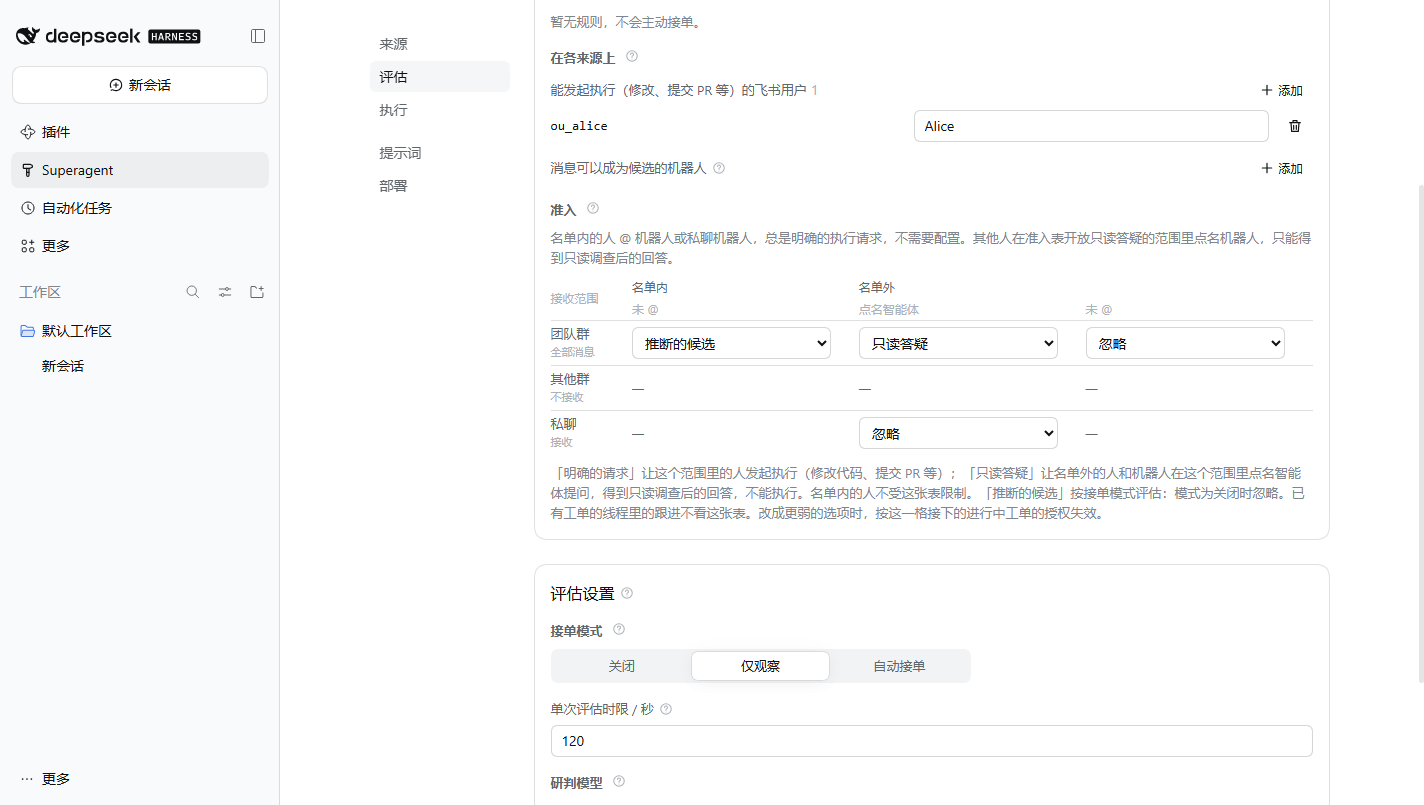
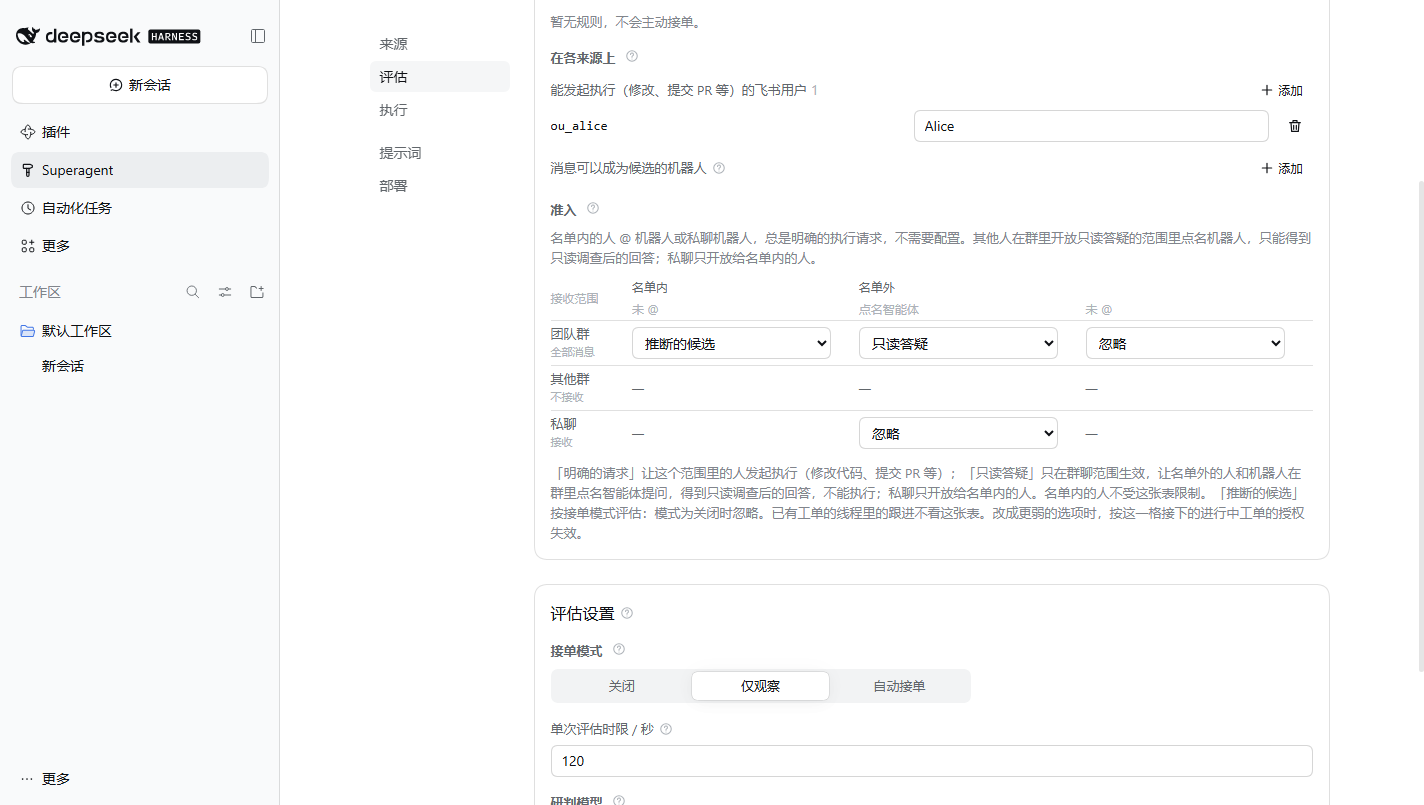
fix: 只读答疑仅限群聊，私聊仍只开放给名单内的人
gate 拒绝 direct 的 reply 准入并拒绝其 reply 授权；准入表私聊行不再提供只读答疑选项；文案、文档和前后截图同步说明群聊限制。

diff --git a/src/policy.ts b/src/policy.ts
@@ -200,8 +200,10 @@ export function settingsPolicy(settings: Settings, sources: SourceScope): Policy
     const row = scope.listened ? scope.row : undefined
     const recorded = { source: trigger.source, scope: trigger.meta, ...row === undefined ? {} : { row } }
     const addressed = trigger.addressed ? { addressed: trigger.addressed } : {}
-    // A bot or agent that addresses the agent in a scope admitting read-only questions asks one, whether or not it is listed.
-    if (trigger.addressed && scope.listened && admissionOf(settings, trigger.source, row, 'unlistedAddressed') === 'reply') {
+    // A bot or agent that addresses the agent in a group scope admitting read-only questions asks one, whether or not it is
+    // listed. Direct messages stay limited to listed senders, so a direct reply cell never admits one.
+    if (trigger.addressed && trigger.addressed !== 'direct' && scope.listened
+      && admissionOf(settings, trigger.source, row, 'unlistedAddressed') === 'reply') {
       return { admissible: true, strength: 'reply', basis: { ...recorded, via: 'admission', cell: 'unlistedAddressed', ...addressed } }
     }
     const bot = trigger.actor.id ? listedBot(settings, trigger.actor) : undefined
@@ -234,8 +236,9 @@ export function settingsPolicy(settings: Settings, sources: SourceScope): Policy
       const basis = { ...recorded, via: 'admission' as const, cell, ...trigger.addressed ? { addressed: trigger.addressed } : {} }
       // Check explicit and reply admission cells before thread follow-ups so a thread's tickets never weaken a direct request to a follow-up.
       if (admission === 'explicit') return { admissible: true, strength: 'explicit', basis }
-      // A reply cell admits an unlisted sender's addressed message as a read-only question: it answers, but never executes.
-      if (admission === 'reply') return { admissible: true, strength: 'reply', basis }
+      // A reply cell admits an unlisted sender's addressed message in a group as a read-only question: it answers, but never
+      // executes. Direct messages stay limited to listed senders.
+      if (admission === 'reply' && trigger.addressed !== 'direct') return { admissible: true, strength: 'reply', basis }
       // Direct-message threads belong to one sender (no follow-up for others), and inferred follow-ups require an accept mode other than off (when off, the table decides).
       if (!(trigger.addressed === 'direct' && !allowed) && (allowed || mode !== 'off') && participating(thread, tickets)) {
         return { admissible: true, strength: allowed ? 'explicit' : 'inferred', basis: { ...recorded, via: 'followup' } }
@@ -247,6 +250,8 @@ export function settingsPolicy(settings: Settings, sources: SourceScope): Policy
     revalidate(mandate: Mandate) {
       // Revalidation rules follow docs/002 (Eval path; Resume revalidates).
       const { basis } = mandate
+      // Read-only replies are a group-scope grant; a direct-message reply Mandate never holds.
+      if (mandate.strength === 'reply' && basis.via !== 'followup' && (basis.addressed === 'direct' || basis.row === 'direct')) return false
       const { source } = basis
       const current = source && basis.scope ? listened(sources, source, basis.scope) : undefined
       if (current && !current.listened) return false

diff --git a/src/client/locales.ts b/src/client/locales.ts
@@ -277,7 +277,7 @@ const TEXT = {
   'admissionValue.inferred': ['推断的候选', 'Inferred candidate'],
   'admissionValue.ignore': ['忽略', 'Ignore'],
   admissionAnyoneWarning: ['这个范围里任何人点名智能体都能直接发起工作', 'Anyone here who addresses the agent can originate work directly'],
-  admissionFootnote: ['「明确的请求」让这个范围里的人发起执行（修改代码、提交 PR 等）；「只读答疑」让名单外的人和机器人在这个范围里点名智能体提问，得到只读调查后的回答，不能执行。名单内的人不受这张表限制。「推断的候选」按接单模式评估：模式为关闭时忽略。已有工单的线程里的跟进不看这张表。改成更弱的选项时，按这一格接下的进行中工单的授权失效。', 'Explicit requests let people in this scope execute work such as code changes and pull requests; read-only replies let unlisted people and bots ask the agent a question here, answered after read-only investigation, without execution. Listed senders are not limited by this table. Inferred candidates follow the accept mode and are ignored when it is off. Follow-ups on Threads that have Tickets do not use this table. Weakening a cell revokes the Mandates of open Tickets accepted under it.'],
+  admissionFootnote: ['「明确的请求」让这个范围里的人发起执行（修改代码、提交 PR 等）；「只读答疑」只在群聊范围生效，让名单外的人和机器人在群里点名智能体提问，得到只读调查后的回答，不能执行；私聊只开放给名单内的人。名单内的人不受这张表限制。「推断的候选」按接单模式评估：模式为关闭时忽略。已有工单的线程里的跟进不看这张表。改成更弱的选项时，按这一格接下的进行中工单的授权失效。', 'Explicit requests let people in this scope execute work such as code changes and pull requests; read-only replies apply to group chats only, letting unlisted people and bots ask the agent there and get an answer after read-only investigation, without execution; direct messages stay limited to listed senders. Listed senders are not limited by this table. Inferred candidates follow the accept mode and are ignored when it is off. Follow-ups on Threads that have Tickets do not use this table. Weakening a cell revokes the Mandates of open Tickets accepted under it.'],
   syncDone: ['上次同步', 'Last synced'],
   evalRecordsPaused: ['处理已暂停：新的触发会被记录，但不会被评估。', 'Processing is paused: new Triggers are recorded but not evaluated.'],
   resumeWhere: ['在执行状态中恢复', 'Resume in the Execution status'],

diff --git a/src/sources/feishu.ts b/src/sources/feishu.ts
@@ -81,7 +81,7 @@ export const feishuKind: SourceKind<FeishuConfig> = {
         columns: [{ key: 'id', type: 'text', label: { zh: 'App ID 或 open_id', en: 'App ID or open_id' }, pattern: '(cli|ou)_[a-zA-Z0-9]+' },
           { key: 'name', type: 'text', label: { zh: '名字', en: 'Name' }, optional: true }] },
     ],
-    explicit: { zh: '名单内的人 @ 机器人或私聊机器人，总是明确的执行请求，不需要配置。其他人在准入表开放只读答疑的范围里点名机器人，只能得到只读调查后的回答。', en: 'Someone on the list who mentions the bot or messages it directly always makes an explicit request to execute; that needs no setting. Anyone else who addresses the bot in a scope admitting read-only replies gets an answer after read-only investigation, never execution.' },
+    explicit: { zh: '名单内的人 @ 机器人或私聊机器人，总是明确的执行请求，不需要配置。其他人在群里开放只读答疑的范围里点名机器人，只能得到只读调查后的回答；私聊只开放给名单内的人。', en: 'Someone on the list who mentions the bot or messages it directly always makes an explicit request to execute; that needs no setting. Anyone else who addresses the bot in a group scope admitting read-only replies gets an answer after read-only investigation, never execution; direct messages stay limited to listed senders.' },
     rows(stored) {
       const config = FeishuConfigSchema.parse(stored)
       const mentions = { zh: '仅 @', en: '@ only' }
@@ -90,8 +90,10 @@ export const feishuKind: SourceKind<FeishuConfig> = {
           cells: { listedUnaddressed: chat.listen === 'all', unlistedAddressed: true, unlistedUnaddressed: chat.listen === 'all' } })),
         { id: 'other', label: { zh: '其他群', en: 'Other chats' }, note: config.otherChats === 'mentions' ? mentions : { zh: '不接收', en: 'Not received' },
           cells: { listedUnaddressed: false, unlistedAddressed: config.otherChats === 'mentions', unlistedUnaddressed: false } },
+        // Direct messages stay limited to listed senders: only group chats may grant read-only replies.
         { id: 'direct', label: { zh: '私聊', en: 'Direct messages' }, note: config.directMessages ? { zh: '接收', en: 'Received' } : { zh: '不接收', en: 'Not received' },
-          cells: { listedUnaddressed: false, unlistedAddressed: config.directMessages, unlistedUnaddressed: false } },
+          cells: { listedUnaddressed: false, unlistedAddressed: config.directMessages, unlistedUnaddressed: false },
+          options: { unlistedAddressed: ['explicit', 'inferred', 'ignore'] as const } },
       ]
     },
   },

diff --git a/tests/policy.spec.ts b/tests/policy.spec.ts
@@ -195,10 +195,20 @@ describe('admission table', () => {
     expect(anyoneMayReply(withTable({ [CHAT]: { unlistedAddressed: 'reply' } }))).toBe(true)
     expect(anyoneMayReply(base)).toBe(false)
   })
+  it('never admits a direct message as a read-only reply, even when the direct row says reply', () => {
+    const settings = setup(withTable({ direct: { unlistedAddressed: 'reply' } }))
+    const direct = (actor: string) => feishu({ actor: { source: 'feishu', id: actor }, addressed: 'direct',
+      meta: { chatId: 'p2p', direct: true, mentioned: false } })
+    expect(settings.policy.gate(direct(STRANGER), thread(), [])).toEqual({ admissible: false, reason: 'not_a_member' })
+    // A listed sender's direct message stays an explicit execution request.
+    expect(settings.policy.gate(direct(MEMBER), thread(), [])).toMatchObject({ admissible: true, strength: 'explicit',
+      basis: { via: 'addressed', addressed: 'direct' } })
+  })
   it('keeps a reply Mandate while the cell still admits replies, and never turns it into execution', () => {
     const open = withTable({ [CHAT]: { unlistedAddressed: 'reply' } })
     const gate = setup(open).policy.gate(inChat(CHAT, STRANGER), thread(), [])
     if (!gate.admissible) throw new Error('expected admission')
+    if (gate.basis.via !== 'admission') throw new Error('expected admission basis')
     const mandate = { strength: gate.strength, policyVersion: 'v', basis: gate.basis, actor: { source: 'feishu', id: STRANGER }, scope: '' }
     expect(mandate.strength).toBe('reply')
     expect(setup(open).policy.revalidate(mandate)).toBe(true)
@@ -206,6 +216,8 @@ describe('admission table', () => {
     expect(setup(withTable({ [CHAT]: { unlistedAddressed: 'explicit' } })).policy.revalidate(mandate)).toBe(true)
     expect(setup(withTable({ [CHAT]: { unlistedAddressed: 'inferred' } })).policy.revalidate(mandate)).toBe(false)
     expect(setup(withTable({})).policy.revalidate(mandate)).toBe(false)
+    // A direct-message reply basis never holds, whatever the chat row says.
+    expect(setup(open).policy.revalidate({ ...mandate, basis: { ...gate.basis, addressed: 'direct' } })).toBe(false)
   })
   })
 describe('revalidating a Mandate from the admission table', () => {

diff --git a/src/sources/kind.ts b/src/sources/kind.ts
@@ -1,7 +1,8 @@
 /** SourceKind plugin contract: configuration schema, UI form fields, policy integration, channel adapter, and thread context reader. */
 import type { Agent } from '@deepseek-ai/dsh-agent'
 import type { z } from 'zod'
-import type { OutboundMessage, ScopeResult, Trigger } from '../core/index.ts'
+import type { AdmissionCell, OutboundMessage, ScopeResult, Trigger } from '../core/index.ts'
+import type { Admission } from '../admission.ts'
 import type { Deployment } from '../deployment.ts'
 import type { Commands } from '../infra/commands.ts'
 import type { SourceContext, SourceHost } from './host.ts'
@@ -23,7 +24,9 @@ export type FieldSpec =
 
 export interface VariableSpec { key: string; description: Localized }
 export interface EnvironmentInput<C> { deployment: Deployment; config: C; trigger?: Trigger }
-export interface AdmissionRowView { id: string; label: Localized | string; note: Localized; cells: { listedUnaddressed: boolean; unlistedAddressed: boolean; unlistedUnaddressed: boolean } }
+export interface AdmissionRowView { id: string; label: Localized | string; note: Localized; cells: { listedUnaddressed: boolean; unlistedAddressed: boolean; unlistedUnaddressed: boolean };
+  /** Choices a cell offers when the Source narrows them, such as no read-only reply for direct messages; the shared options otherwise. */
+  options?: Partial<Record<AdmissionCell, readonly Admission[]>> }
 /** Policy extension for a source kind, defining allowed senders, admission table rows, and optional external roster sync. */
 export interface SourcePolicyPart<P extends Record<string, unknown>> {
   /** Validates the Source's part of the Policy, including `allowed` (senders who may originate work). */

diff --git a/src/client/eval.tsx b/src/client/eval.tsx
@@ -106,11 +106,12 @@ function AdmissionTable({ rows, labels, table, explicit, onChange }: {
   const set = (row: string, cell: AdmissionCell, value: Admission) => onChange({ ...table, [row]: { ...table[row], [cell]: value } })
   const select = (row: AdmissionRowView, cell: AdmissionCell) => {
     const value = table[row.id]?.[cell] ?? ADMISSION_DEFAULTS[cell]
+    const options = row.options?.[cell] ?? ADMISSION_OPTIONS[cell]
     // Reserve a fixed-width slot for the warning icon so selecting a value never shifts column widths.
     return <td key={cell}><span className="dt-admission-cell">
       <select className="dt-select" aria-label={`${name(row)} · ${t(`admissionCell.${cell}`)}`} value={value} onChange={event => set(row.id,
         cell, event.target.value as Admission)}>
-        {ADMISSION_OPTIONS[cell].map(option => <option key={option} value={option}>{t(`admissionValue.${option}`)}</option>)}
+        {options.map(option => <option key={option} value={option}>{t(`admissionValue.${option}`)}</option>)}
       </select>
       <span className="dt-admission-slot">{cell === 'unlistedAddressed' && value === 'explicit' && <InfoTip
         text={t('admissionAnyoneWarning')} icon="alert" warn />}</span>

diff --git a/tests/panel-eval.spec.tsx b/tests/panel-eval.spec.tsx
@@ -136,6 +136,9 @@ it('sets the Feishu admission table per receiving scope, offering only the cells
   expect(cell.value).toBe('ignore')
   // The cell offers execution and read-only replies as separate permissions.
   expect([...cell.options].map(option => option.value)).toEqual(['explicit', 'reply', 'inferred', 'ignore'])
+  // Direct messages stay limited to listed senders, so their cell offers no read-only reply.
+  expect([...field<HTMLSelectElement>('私聊 · 名单外 · 点名智能体').options].map(option => option.value))
+    .toEqual(['explicit', 'inferred', 'ignore'])
   await type(cell, 'explicit')
   // The warning is an icon in a slot every cell reserves, with the text on hover, so the table does not move.
   expect(document.querySelector('.dt-admission .dt-info-warn')?.getAttribute('aria-label')).toBe(zh.admissionAnyoneWarning)

diff --git a/docs/002-authorization.md b/docs/002-authorization.md
@@ -49,11 +49,11 @@ Human messages that reach no Ticket, including Threads whose Tickets were stoppe
 | Strength | Cases |
 | --- | --- |
 | explicit | A person on the list addresses the agent, or follows up on a Thread that already has a Ticket; a cell of the admission table set to explicit request |
-| reply | A person or bot addresses the agent in a scope whose admission row grants read-only replies; the Ticket may investigate and answer, never execute |
+| reply | A person or bot addresses the agent in a group scope whose admission row grants read-only replies; the Ticket may investigate and answer, never execute |
 | inferred | A person not on the list follows up on a Thread with a Ticket, unless their cell of the admission table is explicit or reply; a cell of the admission table set to inferred candidate; a message of a bot on the Source's bot list that addresses the agent or arrives where the Source receives every message |
 | not admitted | Any other bot's message, everything the admission table ignores, and every inferred case while the accept mode is `off` |
 
-Execution and replies are separate permissions. Someone on the allowed list may originate execution: code changes, pull requests and the other work a Ticket normally delivers. A scope that grants read-only replies admits anyone who addresses the agent there, including bots and agents not on the bot list, to ask a question only; their Ticket investigates read-only and answers, and may not modify, commit, push or open a change request. A reply grant never authorizes execution, and a listed sender keeps execution even in a reply-only scope.
+Execution and replies are separate permissions. Someone on the allowed list may originate execution: code changes, pull requests and the other work a Ticket normally delivers. A group scope that grants read-only replies admits anyone who addresses the agent there, including bots and agents not on the bot list, to ask a question only; their Ticket investigates read-only and answers, and may not modify, commit, push or open a change request. A reply grant never authorizes execution, and a listed sender keeps execution even in a reply-only scope. Direct messages are not such a scope: they stay limited to senders on the list, and the admission table offers no read-only reply for them.
 
 For an unlisted person, an explicit or reply admission cell takes precedence even on a Thread with Tickets and works in every accept mode. Otherwise their follow-up is inferred and is not admitted in `off` mode. Messages on Threads followed only for context use the admission table instead of follow-up strength.
 
@@ -75,13 +75,13 @@ A row has up to three cells. Each cell decides whether a message becomes an expl
 
 Cells for unaddressed messages are available only where the Source receives every message, such as a Feishu chat set to **全部消息**, a GitHub or GitLab scope with its receive-all switch enabled. A CI result has no sender, so its row offers only the last cell. Bot messages use the bot list instead of these cells.
 
-Setting the unlisted-addressed cell to explicit lets anyone in that scope request work by mentioning the agent. This can be useful for a dedicated support chat. Setting it to reply instead lets anyone there, people and bots alike, ask a read-only question that the agent answers without executing; the maintenance window, execution settings and repository access stay closed to them. Inferred candidates still depend on the accept mode. Follow-ups normally bypass this table, except that an explicit or reply cell still grants its strength.
+Setting the unlisted-addressed cell to explicit lets anyone in that scope request work by mentioning the agent. This can be useful for a dedicated support chat. Setting it to reply instead, in a group chat, lets anyone there, people and bots alike, ask a read-only question that the agent answers without executing; the maintenance window, execution settings and repository access stay closed to them. A direct-message row offers no read-only reply and remains limited to listed senders. Inferred candidates still depend on the accept mode. Follow-ups normally bypass this table, except that an explicit or reply cell still grants its strength.
 
 The admission table is part of the Policy version. Weakening a cell does not immediately stop open Tickets accepted under it. It can revoke their Mandates when they are revalidated before resuming.
 
 ### Bots and automated reviewers
 
-The host recognizes GitHub Apps, logins ending in `[bot]`, GitLab bot users and Feishu bots as bots. A Source can list bots such as `dependabot[bot]` whose messages may become inferred candidates. They must either address the agent or post in a scope that receives every message. They cannot make explicit requests or stop Tickets. In a scope whose admission row grants read-only replies, a bot or agent that addresses the agent may ask a read-only question there, whether or not it is on the bot list; its reply-only Ticket still cannot execute or stop anything.
+The host recognizes GitHub Apps, logins ending in `[bot]`, GitLab bot users and Feishu bots as bots. A Source can list bots such as `dependabot[bot]` whose messages may become inferred candidates. They must either address the agent or post in a scope that receives every message. They cannot make explicit requests or stop Tickets. In a group scope whose admission row grants read-only replies, a bot or agent that addresses the agent may ask a read-only question there, whether or not it is on the bot list; its reply-only Ticket still cannot execute or stop anything. Direct messages never admit such a question.
 
 An automated reviewer using an ordinary account counts as a person to the host. Its comments reach subscribed Tickets and generate follow-up notices. Team prompt text must identify such accounts as automated reviewers.
 

diff --git a/docs/zh/002-authorization.md b/docs/zh/002-authorization.md
@@ -51,11 +51,11 @@
 | 强度 | 情形 |
 | --- | --- |
 | explicit | 名单上的人向智能体发消息，或在已有工单的线程上跟进；准入表中设为明确请求的单元格 |
-| reply | 人或机器人在准入行开放只读答疑的范围里向智能体发消息；工单可以只读调查并回答，但永不能执行 |
+| reply | 人或机器人在准入行开放只读答疑的群聊范围里向智能体发消息；工单可以只读调查并回答，但永不能执行 |
 | inferred | 不在名单上的人在已有工单的线程上跟进，除非其在准入表中的单元格为明确或只读答疑；准入表中设为推断候选的单元格；来源机器人列表上的机器人所发的消息，且该消息面向智能体，或到达来源能接收每条消息的位置 |
 | not admitted | 任何其他机器人的消息、准入表忽略的一切，以及接单模式为 `off` 时的每个推断情形 |
 
-执行与回复是相互独立的权限。允许名单上的人可以发起执行：代码修改、pull request 以及工单平常交付的其他工作。开放只读答疑的范围允许任何在那里向智能体发消息的人（包括不在机器人列表上的机器人和智能体）只提出问题；其工单只读调查并回答，不能修改、提交、推送或打开变更请求。答疑授权永不允许执行；名单内的人即使在只开放答疑的范围里也保留执行权限。
+执行与回复是相互独立的权限。允许名单上的人可以发起执行：代码修改、pull request 以及工单平常交付的其他工作。开放只读答疑的群聊范围允许任何在那里向智能体发消息的人（包括不在机器人列表上的机器人和智能体）只提出问题；其工单只读调查并回答，不能修改、提交、推送或打开变更请求。答疑授权永不允许执行；名单内的人即使在只开放答疑的范围里也保留执行权限。私聊不属于这类范围：它只开放给名单内的发送者，准入表也不为它提供只读答疑。
 
 对不在名单上的人，明确或只读答疑的准入单元格即使在线程已有工单时也优先，并且在每种接单模式下都有效。否则其跟进属于推断，在 `off` 模式下不予准入。仅在为获取上下文而关注的线程上，消息使用准入表，而不是跟进强度。
 
@@ -77,13 +77,13 @@
 
 针对未面向智能体的消息的单元格，只在来源能接收每条消息的地方可用，例如设为 **全部消息** 的飞书群，或开启了接收全部开关的 GitHub 或 GitLab 范围。CI 结果没有发送者，因此其所在行只提供最后一个单元格。机器人消息使用机器人列表，而不是这些单元格。
 
-把「不在名单上但面向智能体」的单元格设为 explicit，可以让该范围内的任何人通过提及智能体来请求工作。这对专门的支持群可能有用。设为 reply 则让那里的任何人（人和机器人都算）提出只读问题，由智能体只读调查后回答，而不执行；执行设置、维护窗口和仓库写权限仍对他们关闭。推断候选仍取决于接单模式。跟进通常绕过此表，但明确或只读答疑的单元格仍会授予其强度。
+把「不在名单上但面向智能体」的单元格设为 explicit，可以让该范围内的任何人通过提及智能体来请求工作。这对专门的支持群可能有用。在群聊里设为 reply 则让那里的任何人（人和机器人都算）提出只读问题，由智能体只读调查后回答，而不执行；执行设置、维护窗口和仓库写权限仍对他们关闭。私聊行不提供只读答疑，仍只开放给名单内的人。推断候选仍取决于接单模式。跟进通常绕过此表，但明确或只读答疑的单元格仍会授予其强度。
 
 准入表是策略版本的一部分。削弱某个单元格不会立即停止在其下接单的开放工单。当这些工单在恢复前重新校验时，这可能撤销它们的授权。
 
 ### 机器人与自动评审者
 
-宿主把 GitHub Apps、以 `[bot]` 结尾的登录名、GitLab 机器人用户和飞书机器人识别为机器人。来源可以列出诸如 `dependabot[bot]` 的机器人，其消息可以成为推断候选。它们必须面向智能体，或发布在能接收每条消息的范围内。它们不能发出明确请求，也不能停止工单。在准入行开放只读答疑的范围里，向智能体发消息的机器人或智能体可以在那里提出只读问题，无论是否在机器人列表上；其只读答疑工单仍然不能执行或停止任何东西。
+宿主把 GitHub Apps、以 `[bot]` 结尾的登录名、GitLab 机器人用户和飞书机器人识别为机器人。来源可以列出诸如 `dependabot[bot]` 的机器人，其消息可以成为推断候选。它们必须面向智能体，或发布在能接收每条消息的范围内。它们不能发出明确请求，也不能停止工单。在准入行开放只读答疑的群聊范围里，向智能体发消息的机器人或智能体可以在那里提出只读问题，无论是否在机器人列表上；其只读答疑工单仍然不能执行或停止任何东西。私聊永远不接纳这类问题。
 
 使用普通账号的自动评审者，在宿主看来算作人。它的评论会到达已订阅的工单并产生跟进通知。团队提示词文本必须把这类账号标识为自动评审者。
 

diff --git a/docs/006-deployment.md b/docs/006-deployment.md
@@ -264,7 +264,7 @@ Changing prompts or other settings from the Watchdog is a later phase; this chec
 Setup must succeed before polling or work starts. Overview lists missing requirements and links to their settings. A settings change runs setup again. If you fix something outside the application, such as CLI authentication, choose **Check again**.
 
 1. **Sources.** Enable exactly one Git Source. For GitHub, set the repository (`owner/name`) and agent CLI, for example `/home/me/.local/bin/gh-agent`. Requests normally arrive through the agent account's notifications. A new Issue or comment mentioning the account arrives on the next poll; adding a mention by editing an existing Issue body does not. Post a new comment instead. For GitLab, add the GitLab plugin in the profile, configure the GitLab Source card with the URL, project and agent CLI, for example `/home/me/.local/bin/glab-agent`, and switch to it from the Sources page; its project scan reads Issues, merge requests, notes and pipeline changes since the Source was switched on. Optionally set **Webhook URL** so GitLab events trigger a sync immediately (see GitLab webhook above); leaving it empty falls back to `pollSeconds` polling. For Feishu, set the bot CLI, chats, each chat's receive-all or mentions-only mode, and whether to receive direct messages. On Windows, set the CLI to the native `gh` or `glab` and set the advanced configuration directory instead of a wrapper path; see Windows credentials above.
-2. **Policy.** The two example rules can be edited or removed. Under **On each Source**, add the GitHub or GitLab accounts and Feishu users who may ask for execution; until a list has someone or a scope admits read-only replies, no request can become a Ticket. With Feishu, a chat can be chosen to sync the list from, at startup and on **Sync now**. The admission table can also set a scope's unlisted-addressed cell to **read-only reply**, which lets anyone there, including bots and agents, ask a question the agent answers after read-only investigation without executing.
+2. **Policy.** The two example rules can be edited or removed. Under **On each Source**, add the GitHub or GitLab accounts and Feishu users who may ask for execution; until a list has someone or a scope admits read-only replies, no request can become a Ticket. With Feishu, a chat can be chosen to sync the list from, at startup and on **Sync now**. The admission table can also set a group scope's unlisted-addressed cell to **read-only reply**, which lets anyone there, including bots and agents, ask a question the agent answers after read-only investigation without executing. Direct messages offer no read-only reply and stay limited to listed senders.
 3. **Execution.** The directory root and a prepare command. To give each Ticket a checkout of the repository on GitHub:
 
    ```sh

diff --git a/docs/004-prompts.md b/docs/004-prompts.md
@@ -75,7 +75,7 @@ From strongest to weakest:
 These apply [000 Philosophy](000-philosophy.md) to the agents:
 
 - **Separate roles.** The main Session only routes: it forwards the original Trigger and the routing facts, and makes no technical decisions, through one routing tool that takes the decisions on several waiting candidates in one call. A routing note has at most 30 words. The Executor reads the original sources, judges the scope, implements and verifies.
-- **Execution and replies are separate permissions.** A sender allowed to execute may request changes and pull requests. A scope admitting read-only replies lets anyone there, bots and agents included, ask a question whose reply-only Ticket answers after read-only investigation without changing anything.
+- **Execution and replies are separate permissions.** A sender allowed to execute may request changes and pull requests. A group scope admitting read-only replies lets anyone there, bots and agents included, ask a question whose reply-only Ticket answers after read-only investigation without changing anything; direct messages stay limited to listed senders.
 - **The main Session does not wait.** Reports, follow-up notices, candidates and completed background jobs arrive automatically as messages. It ends the turn when nothing remains to do. A guard refuses `sleep`, shell timeouts over 30 seconds and job waits over 5 seconds, because a blocked step delays new candidates. These instructions replace DeepSeek Harness's own job-notification note in the main Session's complete prompt.
 - **Message only when a person must act or can use a result:** a result can be reviewed or used, a decision or resource is needed, or the work cannot be finished. Chat messages are one sentence by default, with a hard limit of 100 words.
 - **Executors decide their follow-ups.** Each Executor handles and acknowledges in-scope requests, and hands back requests beyond its Ticket or for another Ticket. A message becomes new work only after all its owners hand it back or end without taking it up. The main Session receives follow-up notices but may act on them only to stop work. Handed-back messages then arrive as candidates with the Executors' reasons.
